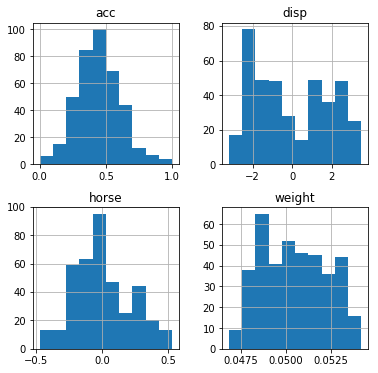
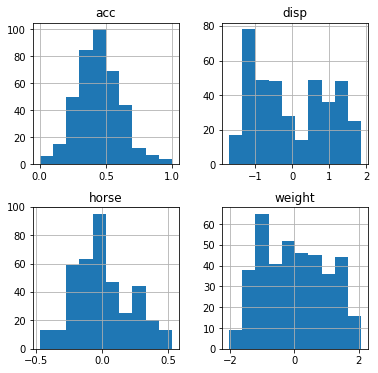
done

diff --git a/README.md b/README.md
@@ -173,10 +173,6 @@ Let's have a look at our continuous features: "acceleration", "displacement", "h
 data_pred[["acceleration", "displacement", "horsepower", "weight"]].hist(figsize  = [6, 6]);
 ```
 
-
-![png](index_files/index_15_0.png)
-
-
 We can tell that skewness is an issue for most of our variables (except acceleration), and that some features e.g. weight are much bigger in scale than others!
 
 Let's transform our data in two phases: first, let's try to make our data look more normal, and second, let's perform feature scaling to manage the difference in magnitude!
@@ -195,7 +191,7 @@ data_log.hist(figsize  = [6, 6]);
 ![png](index_files/index_17_0.png)
 
 
-Although we can't say our new variables look perfectly normal, there is clearly an improvement in terms of skewness. Now, let's perform Min-max scaling (on "acceleration"), standardization on "logdisp", mean normalization (on "loghorse") and unit vector transformation (on "logweight").
+Although we can't say our new variables look perfectly normal, there is clearly an improvement in terms of skewness. Now, let's perform Min-max scaling (on "acceleration"), standardization on "logdisp", mean normalization (on "loghorse") and another standardization (on "logweight").
 
 
 ```python
@@ -205,9 +201,9 @@ loghorse = data_log["loghorse"]
 logweight = data_log["logweight"]
 
 scaled_acc = (acc-min(acc))/(max(acc)-min(acc))	
-scaled_disp = (logdisp-np.mean(logdisp))/np.var(logdisp)	
-scaled_horse = (loghorse-np.mean(loghorse))/(max(loghorse)-min(loghorse))	
-scaled_weight= (logweight)/(np.linalg.norm(logweight))
+scaled_disp = (logdisp-np.mean(logdisp))/np.sqrt(np.var(logdisp))
+scaled_horse = (loghorse-np.mean(loghorse))/(max(loghorse)-min(loghorse))
+scaled_weight= (logweight-np.mean(logweight))/np.sqrt(np.var(logweight))
 
 data_cont_scaled = pd.DataFrame([])
 data_cont_scaled["acc"]= scaled_acc
